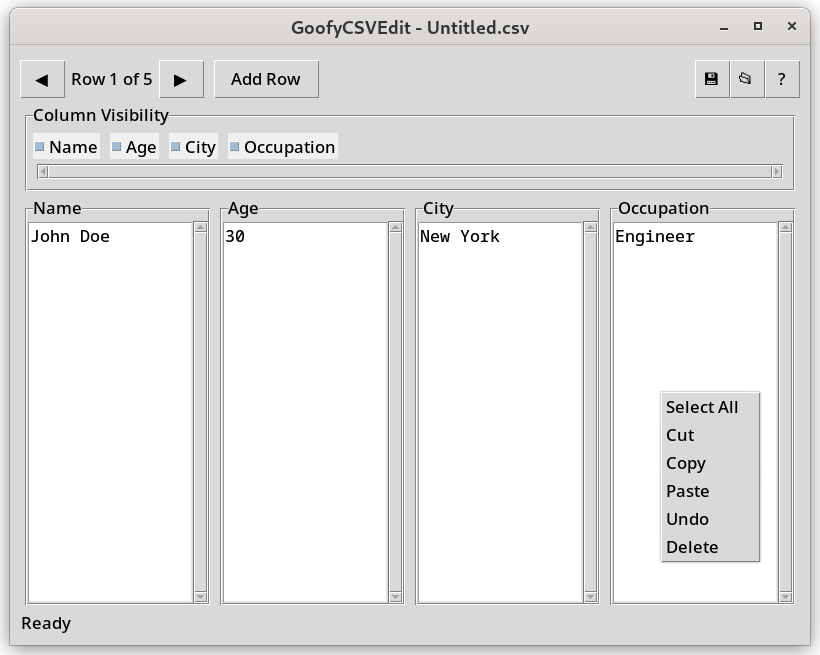
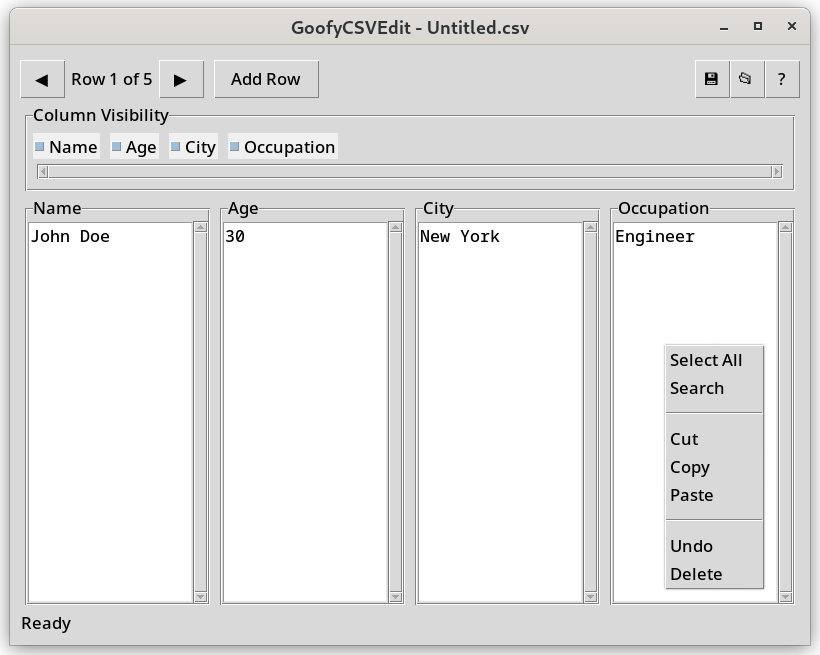
search

Changed region(s): [[0.7927, 0.5191, 0.9451, 0.916]]

diff --git a/goocsv/editor.py b/goocsv/editor.py
@@ -62,6 +62,8 @@ class CSVEditorApp:
         self.modified = False
         self.main_frame = None
         self.current_row_values = []
+        self.texts = []
+        self.search_popup_on = False
         
         # Configure style
         self.style = ttk.Style()
@@ -79,9 +81,13 @@ class CSVEditorApp:
 
         self.context_menu = tk.Menu(self.master, tearoff=0)
         self.context_menu.add_command(label="Select All", command=self.menu_select_all)
+        self.context_menu.add_command(label="Search", command=self.menu_search)
+        
+        self.context_menu.add_separator()
         self.context_menu.add_command(label="Cut", command=self.menu_cut)
         self.context_menu.add_command(label="Copy", command=self.menu_copy)
         self.context_menu.add_command(label="Paste", command=self.menu_paste)
+        self.context_menu.add_separator()
         self.context_menu.add_command(label="Undo", command=self.menu_undo)
         self.context_menu.add_command(label="Delete", command=self.menu_delete)
 
@@ -90,6 +96,12 @@ class CSVEditorApp:
    
         # When window lost focus, hide the context menu
         self.master.bind("<FocusOut>", lambda e: self.context_menu.unpost())
+    
+    def on_close(self):
+        if self.modified:
+            if messagebox.askyesno("Save Changes", "Do you want to save changes to the current file?"):
+                self.save_changes()
+        self.master.destroy()
     
     def map_visible_idx_to_col_idx(self, col_idx):
         """Map the visible column index to the actual column index in the data."""
@@ -132,6 +144,10 @@ class CSVEditorApp:
             # first remove all selected text
             self.current_context_entry.delete("sel.first", "sel.last")
             self.current_context_entry.event_generate("<<Paste>>")
+
+    def menu_search(self):
+        if hasattr(self, 'current_context_entry') and self.current_context_entry:
+            self.current_context_entry.event_generate("<Control-f>")
 
     def event_paste(self, event):
         # check if there is the sel
@@ -331,47 +347,48 @@ class CSVEditorApp:
         row_data = self.rows[self.current_row]
         visible_cols = [i for i, visible in enumerate(self.column_visibility) if visible]        
 
-
         if not visible_cols:
-            # occupy the entire place with a shadow
             frame = ttk.Frame(self.data_frame)
             ttk.Label(frame, text="", background="#f0f0f0", style="Centered.TLabel").pack(fill=tk.BOTH, expand=True, padx=5, pady=5)
-            # expand x and y
             frame.pack(side=tk.LEFT, fill=tk.BOTH, expand=True)
             return
 
-        for col_idx, data_col in enumerate(visible_cols):
+        self.texts = []
 
+        for col_idx, data_col in enumerate(visible_cols):
             col_frame = ttk.LabelFrame(self.data_frame, text=self.headers[data_col])
             col_frame.grid(row=0, column=col_idx, padx=5, pady=5, sticky='nsew', ipadx=5, ipady=5)
-            # col_frame.pack(side=tk.LEFT, fill=tk.BOTH, expand=True)
             
             scrollbar = ttk.Scrollbar(col_frame, orient=tk.VERTICAL)
             scrollbar.pack(side=tk.RIGHT, fill=tk.Y)
             
-            entry = tk.Text(col_frame, wrap=tk.WORD, yscrollcommand=scrollbar.set, width=100000) # fine, I give up
+            entry = tk.Text(col_frame, wrap=tk.WORD, yscrollcommand=scrollbar.set, width=100000)
             entry.insert(tk.END, row_data[data_col])
             entry.pack(side=tk.LEFT, fill=tk.BOTH, expand=True)
-            entry.col_idx = col_idx  # Store the visible column index
+            entry.col_idx = col_idx
+
+            self.texts.append(entry)
 
             entry.bind('<FocusIn>', 
                 lambda e, idx=col_idx: setattr(self, 'col_idx_now', idx))
+            
+            # Focus out to clear all highlight by removing the tags search_highlight and current_match
+            def remove_highlight_tags(event):
+                event.widget.tag_remove("search_highlight", "1.0", tk.END)
+                event.widget.tag_remove("current_match", "1.0", tk.END)
+                if hasattr(event.widget, 'search_matches'):
+                    del event.widget.search_matches
+                if hasattr(event.widget, 'current_match'):
+                    del event.widget.current_match
+            
+            entry.bind('<FocusOut>', remove_highlight_tags)
 
-            # Bind right-click to show the shared context menu
             entry.bind("<Button-3>", 
                 lambda event: self.show_context_menu(event))
-        
-            # Bind ctrl+a to select all
-            def select_all(event):
-                event.widget.tag_add("sel", "1.0", "end")
-                return "break"
-            entry.bind('<Control-a>', select_all)
-
-            # Bind ctrl+v to self.menu_paste
-            entry.bind('<Control-v>', self.event_paste)
-
-            # Bind ctrl+z to undo using the stored column index
+            
             entry.bind('<Control-z>', self.handle_undo)
+            # Bind Ctrl+H to show search popup
+            entry.bind('<Control-f>', self.show_search_popup)
 
             scrollbar.config(command=entry.yview)
             entry.bind('<KeyRelease>', 
@@ -381,6 +398,131 @@ class CSVEditorApp:
             
         self.data_frame.rowconfigure(0, weight=1)
         self.row_label.config(text=f"Row {self.current_row + 1} of {len(self.rows)}")
+
+    def handle_undo(self, event):
+        """Revert the text widget to its original value."""
+        widget = event.widget
+        col_idx = widget.col_idx
+        original_value = self.current_row_values[self.map_visible_idx_to_col_idx(col_idx)]
+        widget.delete("1.0", tk.END)
+        widget.insert(tk.END, original_value)
+
+    def show_search_popup(self, event):
+        if self.search_popup_on:
+            return
+
+        self.search_popup_on = True
+
+        # text_widget = event.widget
+
+        popup = tk.Toplevel(self.master)
+        popup.title("Search")
+
+        # always on top
+        popup.wm_attributes("-topmost", 1)
+        
+        search_entry = ttk.Entry(popup)
+        search_entry.pack(fill=tk.X, padx=5, pady=5)
+        search_entry.focus_set()
+        
+        buttons_frame = ttk.Frame(popup)
+        buttons_frame.pack(fill=tk.X, padx=5, pady=5)
+        
+        prev_button = ttk.Button(buttons_frame, text="Previous",
+                                command=lambda: self.search_prev(self.texts[self.col_idx_now], status_label))
+        prev_button.pack(side=tk.LEFT)
+        
+        next_button = ttk.Button(buttons_frame, text="Next",
+                                command=lambda: self.search_next(self.texts[self.col_idx_now], status_label))
+        next_button.pack(side=tk.RIGHT)
+        
+        status_label = ttk.Label(popup, text="Matches: 0")
+        status_label.pack()
+        
+        search_entry.bind('<KeyRelease>', lambda e: self.update_search(self.texts[self.col_idx_now], search_entry.get(), status_label))
+        
+        search_entry.bind('<Return>', lambda e: self.search_next(self.texts[self.col_idx_now], status_label))
+
+        # bind close to clear flag
+        search_entry.bind('<Destroy>', lambda e: setattr(self, 'search_popup_on', False))
+
+        def on_close():
+            self.texts[self.col_idx_now].tag_remove("search_highlight", "1.0", tk.END)
+            self.texts[self.col_idx_now].tag_remove("current_match", "1.0", tk.END)
+            if hasattr(self.texts[self.col_idx_now], 'search_matches'):
+                del self.texts[self.col_idx_now].search_matches
+            if hasattr(self.texts[self.col_idx_now], 'current_match'):
+                del self.texts[self.col_idx_now].current_match
+            self.search_popup_on = False
+            popup.destroy()
+            
+        popup.protocol("WM_DELETE_WINDOW", on_close)
+
+    def update_search(self, text_widget, search_term, status_label):
+        text_widget.tag_remove("search_highlight", "1.0", tk.END)
+        text_widget.tag_remove("current_match", "1.0", tk.END)
+        
+        if not search_term:
+            status_label.config(text="Matches: 0")
+            return
+        
+        start = "1.0"
+        matches = []
+        while True:
+            pos = text_widget.search(search_term, start, stopindex=tk.END, nocase=True)
+            if not pos:
+                break
+            end = f"{pos}+{len(search_term)}c"
+            matches.append((pos, end))
+            start = end
+        
+        for pos, end in matches:
+            text_widget.tag_add("search_highlight", pos, end)
+        text_widget.tag_config("search_highlight", background="yellow")
+        
+        status_label.config(text=f"Matches: {len(matches)}")
+        
+        if matches:
+            text_widget.search_matches = matches
+            text_widget.current_match = 0
+            text_widget.tag_add("current_match", matches[0][0], matches[0][1])
+            text_widget.tag_config("current_match", background="orange")
+            text_widget.mark_set(tk.INSERT, matches[0][0])
+            text_widget.see(tk.INSERT)
+            status_label.config(text=f"Match 1 of {len(matches)}")
+        else:
+            text_widget.search_matches = []
+            text_widget.current_match = -1
+
+    def search_next(self, text_widget, status_label):
+        if not hasattr(text_widget, 'search_matches') or not text_widget.search_matches:
+            return
+        current = text_widget.current_match
+        if current == -1:
+            return
+        text_widget.tag_remove("current_match", text_widget.search_matches[current][0], text_widget.search_matches[current][1])
+        new_current = (current + 1) % len(text_widget.search_matches)
+        text_widget.current_match = new_current
+        pos, end = text_widget.search_matches[new_current]
+        text_widget.tag_add("current_match", pos, end)
+        text_widget.mark_set(tk.INSERT, pos)
+        text_widget.see(pos)
+        status_label.config(text=f"Match {new_current + 1} of {len(text_widget.search_matches)}")
+
+    def search_prev(self, text_widget, status_label):
+        if not hasattr(text_widget, 'search_matches') or not text_widget.search_matches:
+            return
+        current = text_widget.current_match
+        if current == -1:
+            return
+        text_widget.tag_remove("current_match", text_widget.search_matches[current][0], text_widget.search_matches[current][1])
+        new_current = (current - 1) % len(text_widget.search_matches)
+        text_widget.current_match = new_current
+        pos, end = text_widget.search_matches[new_current]
+        text_widget.tag_add("current_match", pos, end)
+        text_widget.mark_set(tk.INSERT, pos)
+        text_widget.see(pos)
+        status_label.config(text=f"Match {new_current + 1} of {len(text_widget.search_matches)}")
 
     def show_menu(self, event, menu):
         menu.post(event.x_root, event.y_root)
@@ -471,7 +613,7 @@ class CSVEditorApp:
     def about(self):
         messagebox.showinfo(
             "About", 
-            "GoofyCSVEditor v0.1\nThis is a goofy CSV editor with row and column management features.\n\n\n" \
+            "GoofyCSVEditor v0.2\nThis is a goofy CSV editor with row and column management features.\n\n\n" \
             "Author: \nZhaochen Hong(timsanders256@gmail.com)\n",
         )
 

diff --git a/setup.py b/setup.py
@@ -2,7 +2,7 @@ from setuptools import setup, find_packages
 
 setup(
     name='goocsv',
-    version='0.1.0',
+    version='0.2.0',
     packages=find_packages(),
     entry_points={
         'console_scripts': [
